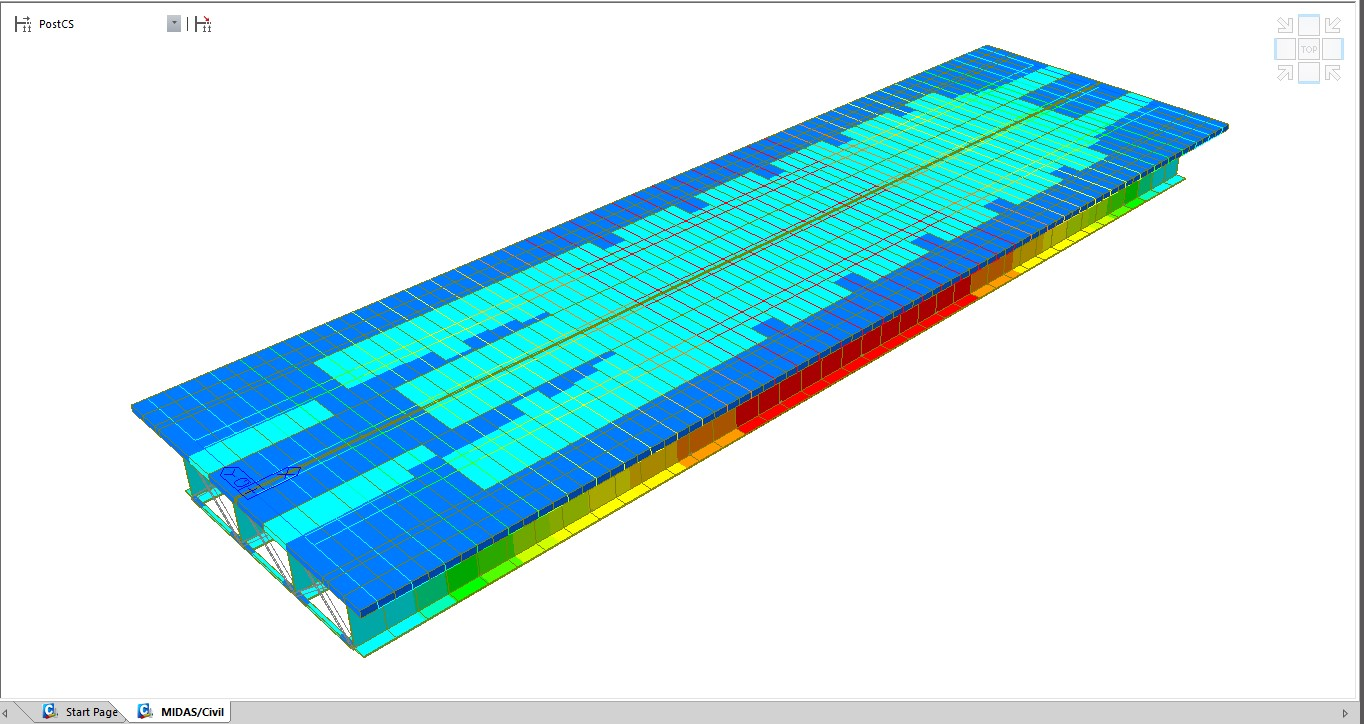
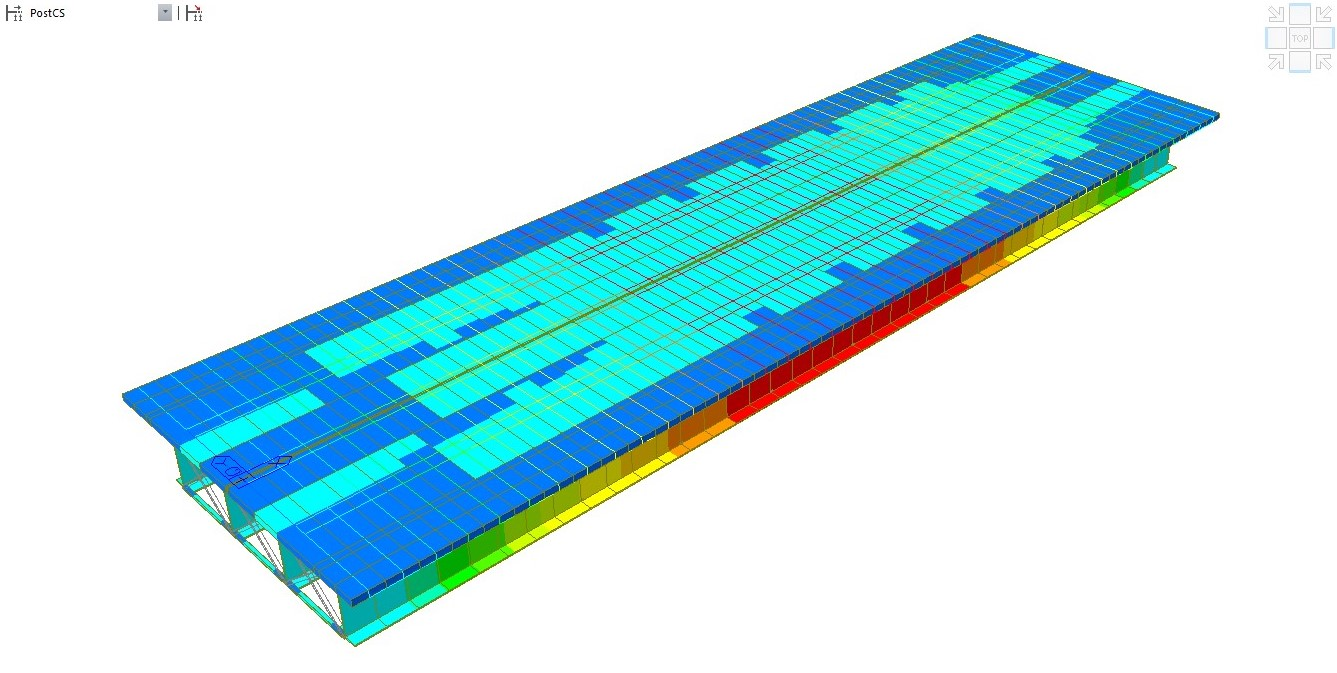
...

Changed region(s): [[0.0, 0.0, 1.0, 1.0], [0.0, 0.0, 0.0613, 0.0624], [0.092, 0.0, 0.1533, 0.0624]]

diff --git a/_engineeringworks/2025-steel-bridge.md b/_engineeringworks/2025-steel-bridge.md
@@ -5,8 +5,8 @@ type: "Bridge Design"
 permalink: /engineeringworks/2024-steel-bridge
 excerpt: "<br/><img src='/images/steel-design-midas-model.jpeg'>" 
 venue: "Isaac's Engineering Works"
-date: 2024-09-04
-location: "Kasoa, Ghana"
+date: 2025-01-10
+location: "Kumasi, Ghana"
 ---
 Under supervision, I performed analysis and design of 40M simply supported composite steel bridge.
 
